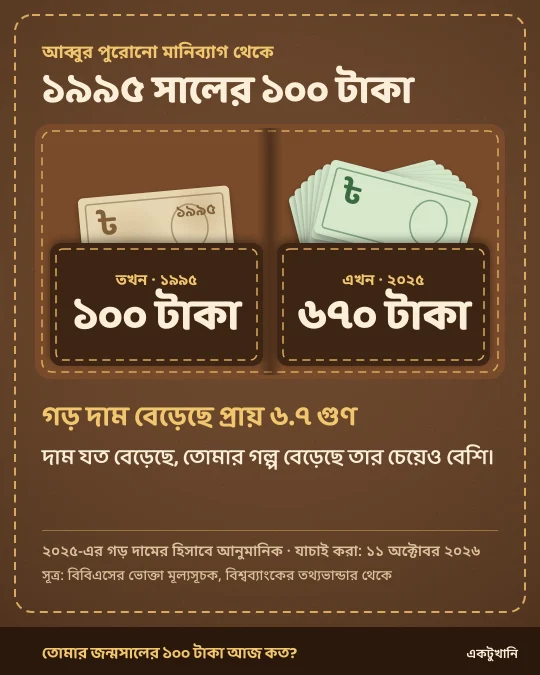
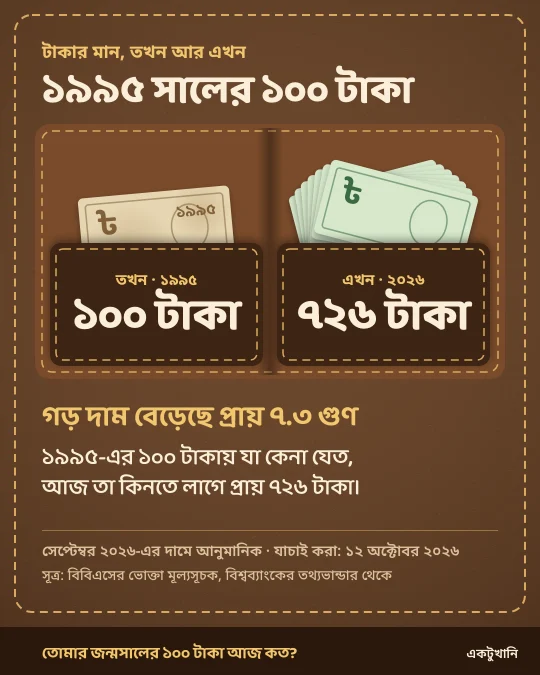
tokhon-ekhon: now is 2026 (2025 average + BBS September 2026 inflation 8.34%), labelled as an estimate; 2025 becomes pickable; fresh share image

diff --git a/tools/tokhon-ekhon/tests/tokhon.test.ts b/tools/tokhon-ekhon/tests/tokhon.test.ts
@@ -1,14 +1,14 @@
 import assert from "node:assert/strict";
 import test from "node:test";
-import { CPI } from "../lib/cpi";
-import { createCard, growthText, humanLine, parseShareHash, previewTitle, roughly, shareHash, worth, years, FIRST_YEAR, LATEST_YEAR } from "../lib/tokhon";
+import { CPI, NOW_INFLATION, NOW_YEAR } from "../lib/cpi";
+import { createCard, growthText, humanLine, parseShareHash, previewTitle, roughly, shareHash, worth, years, FIRST_YEAR, LAST_FULL_YEAR, LATEST_YEAR, LEVEL } from "../lib/tokhon";
 import { share } from "../share";
 
 test("the CPI table is one unbroken, steadily rising yearly series", () => {
   const keys = Object.keys(CPI).map(Number);
   assert.equal(FIRST_YEAR, 1986);
-  assert.equal(LATEST_YEAR, 2025);
-  assert.deepEqual(keys, Array.from({ length: LATEST_YEAR - FIRST_YEAR + 1 }, (_, index) => FIRST_YEAR + index));
+  assert.equal(LAST_FULL_YEAR, 2025);
+  assert.deepEqual(keys, Array.from({ length: LAST_FULL_YEAR - FIRST_YEAR + 1 }, (_, index) => FIRST_YEAR + index));
   for (const year of keys.slice(1)) {
     const change = CPI[year] / CPI[year - 1];
     // Bangladesh has not had a falling year or a 30% jump in this series; either would mean a broken table.
@@ -22,6 +22,15 @@ test("known years match the World Bank response they were generated from", () =>
   assert.equal(CPI[2025], 285.0006);
 });
 
+test("now is the current year, estimated from the last full year plus current inflation", () => {
+  assert.equal(LATEST_YEAR, NOW_YEAR);
+  assert.equal(LATEST_YEAR, LAST_FULL_YEAR + 1);
+  assert.ok(Math.abs(LEVEL[LATEST_YEAR] - CPI[LAST_FULL_YEAR] * (1 + NOW_INFLATION / 100)) < 1e-9);
+  assert.ok(NOW_INFLATION > 0 && NOW_INFLATION < 30);
+  assert.equal(years.at(-1), LAST_FULL_YEAR);
+  assert.ok(Math.abs(worth(100, LAST_FULL_YEAR) - (100 + NOW_INFLATION)) < 1e-9);
+});
+
 test("a sum survives the round trip to now and back", () => {
   for (const year of [FIRST_YEAR, 1995, 2010, 2024]) assert.ok(Math.abs(worth(worth(100, year), LATEST_YEAR, year) - 100) < 1e-9, String(year));
   assert.throws(() => worth(100, 1985), RangeError);
@@ -32,20 +41,20 @@ test("results are rounded to whole taka without false precision", () => {
   assert.equal(roughly(11738.1), 11700);
   assert.equal(roughly(10.88), 11);
   assert.equal(roughly(108.77), 109);
-  assert.equal(createCard({ year: 1995, amount: 100, birth: false }).sentence, "১৯৯৫ সালের ১০০ টাকা ≈ এখনকার ৬৭০ টাকা");
-  assert.equal(createCard({ year: 1986, amount: 1000, birth: false }).now, 11700);
-  assert.equal(createCard({ year: 1990, amount: 100, birth: false }).now, 884);
+  assert.equal(createCard({ year: 1995, amount: 100, birth: false }).sentence, "১৯৯৫ সালের ১০০ টাকা ≈ এখনকার ৭২৬ টাকা");
+  assert.equal(createCard({ year: 1986, amount: 1000, birth: false }).now, 12700);
+  assert.equal(createCard({ year: 1990, amount: 100, birth: false }).now, 957);
 });
 
 test("growth reads as times, or as a percentage when small", () => {
-  assert.equal(growthText(worth(1, 1995)), "গড় দাম বেড়েছে প্রায় ৬.৭ গুণ");
-  assert.equal(growthText(worth(1, 2024)), "গড় দাম বেড়েছে প্রায় ৯%");
+  assert.equal(growthText(worth(1, 1995)), "গড় দাম বেড়েছে প্রায় ৭.৩ গুণ");
+  assert.equal(growthText(worth(1, 2025)), "গড় দাম বেড়েছে প্রায় ৮%");
   assert.equal(growthText(2.04), "গড় দাম বেড়েছে প্রায় ২ গুণ");
 });
 
 test("the human line says what the sum is worth today", () => {
-  assert.equal(humanLine({ year: 1995 }), "১৯৯৫-এর ১০০ টাকায় যা কেনা যেত, আজ তা কিনতে লাগে প্রায় ৬৭০ টাকা।");
-  assert.equal(humanLine({ year: 1986, amount: 1000 }), "১৯৮৬-এর ১,০০০ টাকায় যা কেনা যেত, আজ তা কিনতে লাগে প্রায় ১১,৭০০ টাকা।");
+  assert.equal(humanLine({ year: 1995 }), "১৯৯৫-এর ১০০ টাকায় যা কেনা যেত, আজ তা কিনতে লাগে প্রায় ৭২৬ টাকা।");
+  assert.equal(humanLine({ year: 1986, amount: 1000 }), "১৯৮৬-এর ১,০০০ টাকায় যা কেনা যেত, আজ তা কিনতে লাগে প্রায় ১২,৭০০ টাকা।");
   for (const year of years) assert.ok(humanLine({ year }).length > 10);
 });
 
@@ -55,7 +64,7 @@ test("a shared link round-trips and refuses hostile input", () => {
   assert.deepEqual(parseShareHash(shareHash(shared)), shared);
   assert.deepEqual(parseShareHash("y=2000&a=10"), { year: 2000, amount: 10, birth: false });
   assert.deepEqual(parseShareHash("#y=1986&a=1000&b=yes&x=1")?.birth, false);
-  for (const hash of ["", "#", "#result", "#y=1985&a=100", "#y=2025&a=100", "#y=1995&a=50", "#y=1995&a=1e2", "#y=1995&a=0100", "#y=1995.0&a=100", "#y=19950&a=100", "#y=১৯৯৫&a=১০০", "#y=<script>&a=100", `#y=1995&a=100&z=${"x".repeat(300)}`]) {
+  for (const hash of ["", "#", "#result", "#y=1985&a=100", "#y=2026&a=100", "#y=1995&a=50", "#y=1995&a=1e2", "#y=1995&a=0100", "#y=1995.0&a=100", "#y=19950&a=100", "#y=১৯৯৫&a=১০০", "#y=<script>&a=100", `#y=1995&a=100&z=${"x".repeat(300)}`]) {
     assert.equal(parseShareHash(hash), null, hash);
   }
 });
@@ -69,9 +78,9 @@ test("every generated text is NFC, so canvas and link previews match the repo", 
 
 test("share: normalize, personal preview, and a tally over fixed year ids only", () => {
   assert.equal(share.normalize("a=100&y=1995&b=1&n=রাফি"), "y=1995&a=100&b=1");
-  assert.equal(share.normalize("y=2025&a=100"), null);
-  assert.equal(share.preview("y=1995&a=100&b=1").title, "আমার জন্মসাল ১৯৯৫: তখনকার ১০০ টাকা এখন প্রায় ৬৭০ টাকা। তোমারটা কত?");
-  assert.equal(share.preview("y=1995&a=100").title, "১৯৯৫ সালের ১০০ টাকা এখন প্রায় ৬৭০ টাকা। তোমার জন্মসালেরটা কত?");
+  assert.equal(share.normalize("y=2026&a=100"), null);
+  assert.equal(share.preview("y=1995&a=100&b=1").title, "আমার জন্মসাল ১৯৯৫: তখনকার ১০০ টাকা এখন প্রায় ৭২৬ টাকা। তোমারটা কত?");
+  assert.equal(share.preview("y=1995&a=100").title, "১৯৯৫ সালের ১০০ টাকা এখন প্রায় ৭২৬ টাকা। তোমার জন্মসালেরটা কত?");
   assert.deepEqual(share.tally, years.map(String));
   assert.ok(!share.tally!.includes(String(LATEST_YEAR)));
 });

diff --git a/tools/tokhon-ekhon/content.ts b/tools/tokhon-ekhon/content.ts
@@ -1,6 +1,6 @@
 import type { SiteContent } from "../../shared/site-types";
-import { CHECKED, CHECKED_ON } from "./lib/cpi";
-import { bn, bnYear, createCard, FIRST_YEAR, LATEST_YEAR } from "./lib/tokhon";
+import { CHECKED, CHECKED_ON, NOW_AS_OF, NOW_INFLATION } from "./lib/cpi";
+import { bn, bnYear, createCard, FIRST_YEAR, LAST_FULL_YEAR, LATEST_YEAR } from "./lib/tokhon";
 
 const latest = bnYear(LATEST_YEAR);
 const example = (year: number) => bn(createCard({ year, amount: 100, birth: false }).now);
@@ -27,9 +27,9 @@ export const site: SiteContent = {
     "‘আমার সালটা যোগ করো’ চাপলে শুধু সালটা মোট গোনায় যোগ হয়। আর কিছু, এমনকি IP-ও আমরা রাখি না।",
   ],
   faq: [
-    { question: "১৯৯০ সালের ১০০ টাকা এখন কত টাকা?", answer: `${latest}-এর গড় দামের হিসাবে প্রায় ${example(1990)} টাকা। একইভাবে ২০০০ সালের ১০০ টাকা এখন প্রায় ${example(2000)} টাকা, ২০১০-এর ১০০ টাকা প্রায় ${example(2010)} টাকা। ওপরে নিজের সালটা বেছে দেখো।` },
-    { question: "টাকার মান বা মূল্যস্ফীতি কীভাবে হিসাব করা হয়?", answer: `বিবিএসের ভোক্তা মূল্যসূচক (CPI) দিয়ে: তখনকার টাকা × (${latest}-এর সূচক ÷ সেই সালের সূচক)। সূচকটা সব জিনিসের গড় দাম ধরে বানানো, তাই ফলটা আনুমানিক।` },
-    { question: "আজকের দাম মানে কোন সালের দাম?", answer: `${latest} সালের গড় দাম, কারণ এটাই সূচকের সবচেয়ে নতুন পুরো বছরের হিসাব। নতুন বছরের হিসাব বের হলে আমরা বছরে একবার হালনাগাদ করি। শেষ যাচাই: ${CHECKED}।` },
+    { question: "১৯৯০ সালের ১০০ টাকা এখন কত টাকা?", answer: `${NOW_AS_OF}-এর দামে প্রায় ${example(1990)} টাকা। একইভাবে ২০০০ সালের ১০০ টাকা এখন প্রায় ${example(2000)} টাকা, ২০১০-এর ১০০ টাকা প্রায় ${example(2010)} টাকা। ওপরে নিজের সালটা বেছে দেখো।` },
+    { question: "টাকার মান বা মূল্যস্ফীতি কীভাবে হিসাব করা হয়?", answer: `বিবিএসের ভোক্তা মূল্যসূচক (CPI) দিয়ে: তখনকার টাকা × (এখনকার সূচক ÷ সেই সালের সূচক)। সূচকটা সব জিনিসের গড় দাম ধরে বানানো, তাই ফলটা আনুমানিক।` },
+    { question: "আজকের দাম মানে কোন সালের দাম?", answer: `${latest} সালের, ${NOW_AS_OF} পর্যন্ত। বছরটা শেষ হয়নি বলে এর গড় সূচক এখনো বের হয়নি। তাই ${bnYear(LAST_FULL_YEAR)}-এর গড় সূচকের ওপর বিবিএসের সবশেষ মূল্যস্ফীতি (${bn(NOW_INFLATION)}%) যোগ করে এখনকার দাম ধরা হয়েছে। শেষ যাচাই: ${CHECKED}।` },
     { question: "আগের দিনের দাম, যেমন চাল বা তেলের দাম কত ছিল, এখানে পাব?", answer: "না। আলাদা জিনিসের পুরোনো দাম রাখিনি, কারণ ফেসবুকে ঘোরা ‘আগের দিনের দাম’-এর অনেক ছবিতে সাল বা দাম ভুল থাকে। এখানে শুধু একটাই যাচাই করা হিসাব: সব জিনিসের গড় দাম কত বেড়েছে।" },
     { question: "তথ্যটা কোথা থেকে নেওয়া?", answer: "বাংলাদেশ পরিসংখ্যান ব্যুরোর (বিবিএস) ভোক্তা মূল্যসূচক, বছরের গড়, ২০১০ = ১০০ ধরে। আমরা নিয়েছি বিশ্বব্যাংকের তথ্যভান্ডার থেকে (সূচক FP.CPI.TOTL), যেখানে এটা আইএমএফ হয়ে আসে। পাতার নিচে সূত্রের লিংক আর পুরো তালিকা আছে।" },
     { question: `${bnYear(FIRST_YEAR)}-এর আগের সাল নেই কেন?`, answer: `আমরা যে একটা সূচক ব্যবহার করছি, সেটা ${bnYear(FIRST_YEAR)} থেকে শুরু। আগের সালের জন্য আলাদা সূত্র জোড়া দিলে হিসাব মেলানো কঠিন, ভুলের ঝুঁকিও বাড়ে, তাই রাখিনি।` },

diff --git a/tools/tokhon-ekhon/page.tsx b/tools/tokhon-ekhon/page.tsx
@@ -2,8 +2,8 @@ import "./product.css";
 import { Faq, JsonLd, PageFrame } from "../../shared/site-shell";
 import { site } from "./content";
 import { Wallet } from "./components/wallet";
-import { CHECKED, CPI, SOURCE_URL, WB_UPDATED } from "./lib/cpi";
-import { bn, bnYear, createCard, years, LATEST_YEAR } from "./lib/tokhon";
+import { CHECKED, CPI, NOW_AS_OF, NOW_INFLATION, NOW_SOURCE_URL, SOURCE_URL, WB_UPDATED } from "./lib/cpi";
+import { bn, bnYear, createCard, years, LAST_FULL_YEAR, LATEST_YEAR, LEVEL } from "./lib/tokhon";
 
 const cpiText = new Intl.NumberFormat("bn-BD", { minimumFractionDigits: 1, maximumFractionDigits: 1 });
 
@@ -22,7 +22,8 @@ export default function TokhonEkhonPage() {
         <section className="container section tokhon-method" id="source" aria-labelledby="method-title">
           <h2 id="method-title">হিসাবটা কোথা থেকে আসে</h2>
           <p>একটাই তথ্যসূত্র: বাংলাদেশ পরিসংখ্যান ব্যুরোর (বিবিএস) ভোক্তা মূল্যসূচক, বছরের গড়, ২০১০ = ১০০ ধরে। আমরা নিয়েছি বিশ্বব্যাংকের তথ্যভান্ডার থেকে (সূচক FP.CPI.TOTL), যেখানে এটা আইএমএফ হয়ে আসে।</p>
-          <p>হিসাব: তখনকার টাকা × ({bnYear(LATEST_YEAR)}-এর সূচক ÷ সেই সালের সূচক)। যেমন ১৯৯৫-এর সূচক {cpiText.format(CPI[1995])}, {bnYear(LATEST_YEAR)}-এর {cpiText.format(CPI[LATEST_YEAR])}। তাই ১৯৯৫-এর ১০০ টাকা ≈ এখনকার {bn(example.now)} টাকা।</p>
+          <p>হিসাব: তখনকার টাকা × (এখনকার সূচক ÷ সেই সালের সূচক)। {bnYear(LATEST_YEAR)} সাল এখনো শেষ হয়নি, তাই এর বছরের গড় এখনো নেই। এখনকার সূচক ধরা হয়েছে {bnYear(LAST_FULL_YEAR)}-এর গড় সূচকের ওপর বিবিএসের সবশেষ মূল্যস্ফীতি যোগ করে: {NOW_AS_OF}-এ {cpiText.format(NOW_INFLATION)}%। তাতে এখনকার সূচক দাঁড়ায় প্রায় {cpiText.format(LEVEL[LATEST_YEAR])}।</p>
+          <p>যেমন ১৯৯৫-এর সূচক {cpiText.format(CPI[1995])}। তাই ১৯৯৫-এর ১০০ টাকা ≈ এখনকার {bn(example.now)} টাকা।</p>
           <p>এটা সব জিনিসের গড় দাম। চাল, তেল, বাসভাড়া, বাড়িভাড়া একেকটা একেক হারে বেড়েছে, তাই ফলটা আনুমানিক। আলাদা জিনিসের পুরোনো দাম রাখিনি: ফেসবুকে ঘোরা ‘আগের দিনের দাম’-এর অনেক ছবিতে সাল ভুল থাকে।</p>
           <details className="tokhon-table">
             <summary>প্রতি সালের ১০০ টাকা এখন কত <small>পুরো তালিকা</small></summary>
@@ -31,7 +32,7 @@ export default function TokhonEkhonPage() {
               <tbody>{years.map(year => <tr key={year}><th scope="row">{bnYear(year)}</th><td>{cpiText.format(CPI[year])}</td><td>{bn(createCard({ year, amount: 100, birth: false }).now)} টাকা</td></tr>)}</tbody>
             </table>
           </details>
-          <p className="tokhon-source">সূত্র/যাচাই: <a href={SOURCE_URL} target="_blank" rel="noopener">বিশ্বব্যাংক, Consumer price index (2010 = 100), Bangladesh</a> · বিশ্বব্যাংকের হালনাগাদ: {WB_UPDATED} · যাচাই করা: {CHECKED} · বছরে একবার হালনাগাদ হয়।</p>
+          <p className="tokhon-source">সূত্র/যাচাই: <a href={SOURCE_URL} target="_blank" rel="noopener">বিশ্বব্যাংক, Consumer price index (2010 = 100), Bangladesh</a> · বিশ্বব্যাংকের হালনাগাদ: {WB_UPDATED} · <a href={NOW_SOURCE_URL} target="_blank" rel="noopener">{NOW_AS_OF}-এর মূল্যস্ফীতি, বিবিএস (বাসস)</a> · যাচাই করা: {CHECKED}</p>
         </section>
 
         <section className="container section tokhon-guide" id="guide" aria-labelledby="guide-title">

diff --git a/tools/tokhon-ekhon/lib/tokhon.ts b/tools/tokhon-ekhon/lib/tokhon.ts
@@ -1,10 +1,14 @@
-import { CPI } from "./cpi";
+import { CPI, NOW_AS_OF, NOW_INFLATION, NOW_YEAR } from "./cpi";
 
 const dataYears = Object.keys(CPI).map(Number).sort((a, b) => a - b);
 export const FIRST_YEAR = dataYears[0];
-/** "Now" is the latest year in the data, never the phone's clock. */
-export const LATEST_YEAR = dataYears[dataYears.length - 1];
-/** Years you can pick: every year in the data before the latest one. */
+/** The newest full-year average in the data (the base for "now"). */
+export const LAST_FULL_YEAR = dataYears[dataYears.length - 1];
+/** "Now" is a fixed year from cpi.ts, never the phone's clock. */
+export const LATEST_YEAR = NOW_YEAR;
+/** Price level per year: the annual averages, plus "now" estimated from the latest full year and current inflation. */
+export const LEVEL: Readonly<Record<number, number>> = { ...CPI, [NOW_YEAR]: CPI[LAST_FULL_YEAR] * (1 + NOW_INFLATION / 100) };
+/** Years you can pick: every full year in the data. */
 export const years = dataYears.filter(year => year < LATEST_YEAR);
 export const amounts = [10, 100, 1000] as const;
 export type Amount = (typeof amounts)[number];
@@ -19,9 +23,9 @@ const decimal = new Intl.NumberFormat("bn-BD", { maximumFractionDigits: 1 });
 export const bn = (value: number) => grouped.format(value);
 export const bnYear = (value: number) => plain.format(value);
 
-/** What `amount` taka of `from` costs in `to`, by the average consumer price index: amount × CPI(to) ÷ CPI(from). */
+/** What `amount` taka of `from` costs in `to`, by the consumer price index: amount × level(to) ÷ level(from). */
 export function worth(amount: number, from: number, to = LATEST_YEAR) {
-  const then = CPI[from], now = CPI[to];
+  const then = LEVEL[from], now = LEVEL[to];
   if (!then || !now) throw new RangeError("এই সালের হিসাব নেই।");
   return (amount * now) / then;
 }
@@ -36,7 +40,7 @@ export function roughly(value: number) {
 /** How many fresh notes the wallet shows for "now": the price multiple, rounded, between 1 and 12. */
 export const noteCount = (times: number) => Math.min(12, Math.max(1, Math.round(times)));
 
-/** "গড় দাম বেড়েছে প্রায় ৬.৭ গুণ"; under 1.5× a percentage reads better ("প্রায় ৯%"). */
+/** "গড় দাম বেড়েছে প্রায় ৭.৩ গুণ"; under 1.5× a percentage reads better ("প্রায় ৮%"). */
 export function growthText(times: number) {
   return times < 1.5 ? `গড় দাম বেড়েছে প্রায় ${bn(Math.round((times - 1) * 100))}%` : `গড় দাম বেড়েছে প্রায় ${decimal.format(times)} গুণ`;
 }
@@ -86,12 +90,12 @@ export function createCard(shared: Shared): Card {
     headline: `${bnYear(shared.year)} সালের ${bn(shared.amount)} টাকা`,
     sentence: `${bnYear(shared.year)} সালের ${bn(shared.amount)} টাকা ≈ এখনকার ${bn(now)} টাকা`,
     growth: growthText(times),
-    basis: `${bnYear(LATEST_YEAR)}-এর গড় দামের হিসাবে আনুমানিক`,
+    basis: `${NOW_AS_OF}-এর দামে আনুমানিক`,
     line: humanLine(shared),
   };
 }
 
-/** Link-preview and post text, e.g. "আমার জন্মসাল ১৯৯৫: তখনকার ১০০ টাকা এখন প্রায় ৬৭০ টাকা". */
+/** Link-preview and post text, e.g. "আমার জন্মসাল ১৯৯৫: তখনকার ১০০ টাকা এখন প্রায় ৭২৬ টাকা". */
 export function previewTitle(shared: Shared) {
   const card = createCard(shared);
   return shared.birth

diff --git a/tools/tokhon-ekhon/lib/cpi.ts b/tools/tokhon-ekhon/lib/cpi.ts
@@ -56,6 +56,17 @@ export const SOURCE_URL = "https://data.worldbank.org/indicator/FP.CPI.TOTL?loca
 /** The World Bank's own "lastupdated" for this series (2026-10-08). */
 export const WB_UPDATED = "৮ অক্টোবর ২০২৬";
 /** Shown as "যাচাই করা: …" next to every result. */
-export const CHECKED = "১১ অক্টোবর ২০২৬";
+export const CHECKED = "১২ অক্টোবর ২০২৬";
 // ISO twin of the date above for schema dateModified and sitemap lastmod; bump both together.
-export const CHECKED_ON = "2026-10-11";
+export const CHECKED_ON = "2026-10-12";
+
+/*
+ * "Now" is the current year, which has no annual average yet. Its price level is the latest annual average
+ * carried forward by BBS's latest point-to-point inflation (September 2026: 8.34%, released 7 October 2026).
+ * Update monthly or yearly: change the rate, month and link; once the World Bank publishes the 2026 average,
+ * add it to CPI above and move NOW_YEAR on.
+ */
+export const NOW_YEAR = 2026;
+export const NOW_INFLATION = 8.34;
+export const NOW_AS_OF = "সেপ্টেম্বর ২০২৬";
+export const NOW_SOURCE_URL = "https://www.bssnews.net/business/432352";
